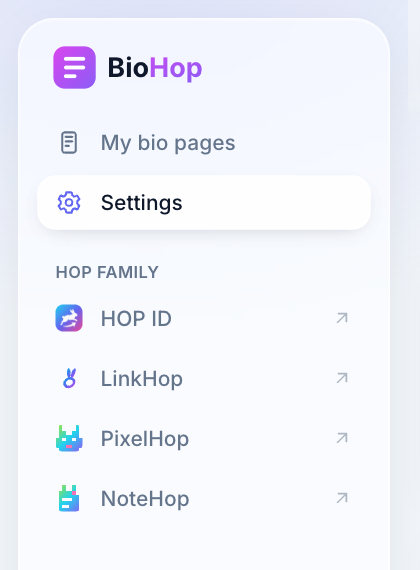
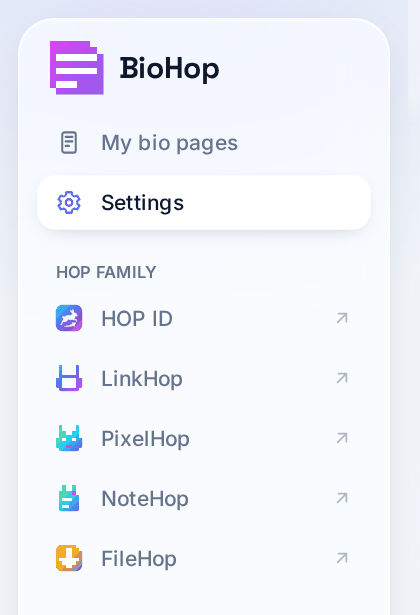
README screenshots: retake from current main

diff --git a/README.md b/README.md
@@ -8,7 +8,7 @@ The shared Blade components and family data for the Laravel apps of the HOP fami
 
 These come from the BioHop dashboard and home page, run locally with a demo account, using this package at `main`.
 
-![The BioHop sidebar with the HOP family list: HOP ID, LinkHop, PixelHop and NoteHop, each with its mark. BioHop itself is not listed.](docs/images/family-nav.png)
+![The BioHop sidebar with the HOP family list: HOP ID, LinkHop, PixelHop, NoteHop and FileHop, each with its mark. BioHop itself is not listed.](docs/images/family-nav.png)
 
 ![The language menu in the top bar, open: nine languages with the native name on the left and a short code on the right.](docs/images/language-switcher.png)
 
